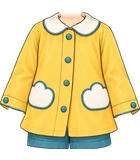
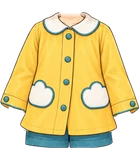
여아 노란 우비: 파란 반바지만 5% 키움 (#764)
* 여아 노란 우비: 파란 반바지만 5% 키움

우비는 그대로 두고 밑단 아래 반바지만 허리 가운데 기준으로 키워 우비 뒤에 넣었다. ?v=2.

Claude-Session: https://claude.ai/code/session_018maNuYqDfFyRSe9uKpZhPR

* 노란 우비 반바지 보정 기록 추가

Claude-Session: https://claude.ai/code/session_018maNuYqDfFyRSe9uKpZhPR

---------

diff --git a/src/data/avatarEquipment.js b/src/data/avatarEquipment.js
@@ -258,8 +258,9 @@ export const AVATAR_CATALOG = [
   { id: "top_bakery_girl", slot: "top",   label: "베이커리룩",   emoji: "🥐", price:DECOR_PRICE.rare, rarity: "rare", theme: "common", forGender: "girl", coversBottom: true, img: "assets/avatar/top/bakery-outfit-girl.webp", thumb: "assets/avatar/thumb/top_bakery.webp" },
   /* 노란 우비 [2026-10-02] — 노란 우비(흰 둥근 깃·구름 주머니) + 청록 반바지 한 벌(사용자 원화). 베이커리룩과 같은 방식:
      원화 목 외곽선 중심(x226.5)을 여아 목 중심 x512.5 에, 곧은 목선이 끝나는 원화 y19 를 y372 에 맞추고
-     배율 0.69(원화 목 폭 64 → 여아 목 44, 소매가 손목에서 끝난다). 원화 목은 페이드. */
-  { id: "top_raincoat_girl", slot: "top", label: "노란 우비",    emoji: "☔", price:DECOR_PRICE.rare, rarity: "rare", theme: "common", forGender: "girl", coversBottom: true, img: "assets/avatar/top/raincoat-girl.webp", thumb: "assets/avatar/thumb/top_raincoat.webp" },
+     배율 0.69(원화 목 폭 64 → 여아 목 44, 소매가 손목에서 끝난다). 원화 목은 페이드.
+     [2026-10-02] 사용자 요청으로 우비 밑단 아래 청록 반바지만 5% 키웠다(허리 가운데 기준, 우비는 그대로). ?v=2 */
+  { id: "top_raincoat_girl", slot: "top", label: "노란 우비",    emoji: "☔", price:DECOR_PRICE.rare, rarity: "rare", theme: "common", forGender: "girl", coversBottom: true, img: "assets/avatar/top/raincoat-girl.webp?v=2", thumb: "assets/avatar/thumb/top_raincoat.webp?v=2" },
   /* 우주복 — 옷이 흰색이라 '베이스와 색이 다른 픽셀' 규칙만으로는 안 떼어졌다.
      베이스 속옷도 희고 살색과도 가까워서다. 그래서 '베이스가 살색인 자리에서만 색차를 본다'로
      바꿔서 떼어냈다(art-src/README 참고). 팔·다리까지 다 덮는 한 벌이라 상의 슬롯 하나.

diff --git a/art-src/README.md b/art-src/README.md
@@ -351,7 +351,7 @@ getBoundingClientRect로 재서 정한다. 2026-08-05 점검에서 이 기준을
 | bottom-denim-shorts.webp | 데님 반바지 원화 (밑단 롤업) | avatar/bottom/denim-shorts.webp |
 | sky-girl-src.webp | **하늘 나들이 옷 원화 여아 (사용자 원화 2026-08-20)** — 860×1829 캔버스에 **옷만 오려 낸 그림**(타이츠 없는 판). 크림 블라우스 + 파란 리본 + 별·물방울 무늬 하늘색 스캘럽 치마. 알파 상자 (206,707)-(625,1219) | avatar/top/sky-outing-girl.webp |
 | bakery-girl-outfit-src.webp | **베이커리룩 원화 여아 (사용자 원화 2026-10-02)**. 348×486 투명 배경, 크림 셔츠 + 분홍 둥근 깃·앞치마·리본·주름치마 원피스. 위쪽에 목(턱 없음)이 함께 그려져 있다. 원화 목 외곽선 x142.5~207(폭 64.5, 중심 174.75)을 여아 목 x490.5~534.5 중심 512.5 에, 목이 어깨로 넓어지는 원화 y18 을 여아 y372 에 맞추고, 흰 수영복 비침이 사라지는 가장 작은 배율 0.71(목 폭 기준 0.68 은 59px 비침). 목 살(r−b>70)과 목 옆선은 원화 y6→22 동안 0→1 페이드. 조각 1개, 수영복 비침 1px. 탑재 상자 (388,359)-(635,704) | avatar/top/bakery-outfit-girl.webp · thumb/top_bakery.webp |
-| raincoat-girl-src.webp | **노란 우비 원화 여아 (사용자 원화 2026-10-02)**. 449×443 투명 배경, 노란 우비(흰 둥근 깃·청록 테두리·구름 주머니) + 청록 반바지 한 벌. 위쪽에 목(턱 없음)이 함께 그려져 있다. 원화 목 외곽선 x194.5~258.5(폭 64, 중심 226.5)를 여아 목 중심 x512.5 에, 곧은 목선이 깃 속으로 들어가는 원화 y19 를 여아 y372 에 맞추고 배율 0.69(목 폭이 같아지는 값 — 품이 넓어 수영복은 0.64 부터 다 가려진다, 소매는 손목에서 끝남). 목 살(r−b>70)과 목 옆선은 원화 y6→24 동안 0→1 페이드. 조각 1개, 수영복 비침 0. 탑재 상자 (356,360,666,665) | avatar/top/raincoat-girl.webp · thumb/top_raincoat.webp |
+| raincoat-girl-src.webp | **노란 우비 원화 여아 (사용자 원화 2026-10-02)**. 449×443 투명 배경, 노란 우비(흰 둥근 깃·청록 테두리·구름 주머니) + 청록 반바지 한 벌. 위쪽에 목(턱 없음)이 함께 그려져 있다. 원화 목 외곽선 x194.5~258.5(폭 64, 중심 226.5)를 여아 목 중심 x512.5 에, 곧은 목선이 깃 속으로 들어가는 원화 y19 를 여아 y372 에 맞추고 배율 0.69(목 폭이 같아지는 값 — 품이 넓어 수영복은 0.64 부터 다 가려진다, 소매는 손목에서 끝남). 목 살(r−b>70)과 목 옆선은 원화 y6→24 동안 0→1 페이드. 조각 1개, 수영복 비침 0. 탑재 상자 (356,360,666,665) **[2026-10-02 보정]** 사용자 요청으로 반바지만 5퍼센트 키움 — 열마다 노란색 마지막 줄+4 아래(가운데 앞자락 틈 x200~232·y<392 제외)를 반바지로 떼어, 원화 (x221.5, y395) 기준으로 1.05배 키워 원래 반바지 위·우비 아래에 넣었다. 키운 반바지가 원래 반바지 윗선보다 위로 우비 밖에 나오는 부분은 잘랐다. 탑재 상자 (355,360)-(668,669) · ?v=2 | avatar/top/raincoat-girl.webp · thumb/top_raincoat.webp |
 | sky-girl-tights-src.webp | 위 옷의 **타이츠 있는 판** (알파 상자 (206,707)-(625,1582)). **안 썼다** — 아래 '옷만 오려 낸 원화' 절 참고. 타이츠 아이템을 따로 만들 때 다시 쓸 수 있어 남겨 둔다 | (미탑재) |
 | space-boy-src.webp | **[2026-09-29 그림 교체]** 사용자가 헬멧·가방·신발까지 갖춘 '우주 세트'를 새로 그려 보내 왔다(그림 4장 — 옷만·옷+헬멧·옷+헬멧+신발·옷+헬멧+가방+신발, 각기 다른 캔버스 크기의 독립 생성본). 남아 우주복만 이 그림으로 갈아 끼웠다(같은 파일명, CLAUDE.md 6 — 구버전 원본은 지웠다). 흰 우주복 + 남색 어깨·벨트·무릎보호대 + 제어판·토성 별 패치 + 주황 포인트, 손목·발목에서 딱 잘려 손·발은 알파 0(베이스 맨손·맨발이 비친다). **탑재 배율 계산**: 네 장이 서로 다른 캔버스라 픽셀 diff 정합이 안 먹혀서, '옷만' 그림 한 장 안에서 목깃 최고점(y640)과 발목깃 아래끝(y1425, 맨발 시작 전)·벨트 폭(482px)을 함께 재 배율 0.638(균등)을 산출했다(벨트 폭 기준 검산 오차 1%). 목깃 위끝 y640, 발목깃 y1425 잘라 탑재 상자 (224,-3)-(832,1050). 헬멧·가방·신발도 같은 배율·목깃선을 그대로 물려 썼다(아래 세 줄) — 넷을 따로 입혀도 자리가 안 어긋난다 | avatar/top/space-suit-boy.webp |
 | astronaut-helmet-boy-src.webp | **우주 헬멧 원화 남아 (사용자 원화 2026-09-29, 우주 세트 2/4 — '옷+헬멧' 그림에서 목깃 아래를 잘라 보관)** — 554×480 캔버스, 이미 '쓰고 있는 머리 그림'이라 얼굴 위치를 눈으로 맞출 필요가 없었다. 흰 돔 + 남색 링·귀 스피커 + 하늘색 바이저 하이라이트. hidesHead(베이스 머리 전체를 이 그림이 대신한다). 배율은 우주복과 같은 0.638 — 헬멧 밑단(목깃 최고점, 원화 y632)을 우주복 목깃 위끝(y640)과 같은 자리(y405)에 맞춰서 둘 사이에 틈이나 겹침이 없다. 탑재 상자 (216,2)-(569,308). **[2026-09-30] 사용자가 미리보기로 써 보고 바로 빼 달라고 해서 카탈로그에서 뺐다**(hat_astronaut, RETIRED_ITEM_INFO) — 그림·원본은 CLAUDE.md 6 번과 달리 '교체'가 아니라 '보류'라 그대로 둔다 | avatar/hat/astronaut-helmet-boy.webp |
